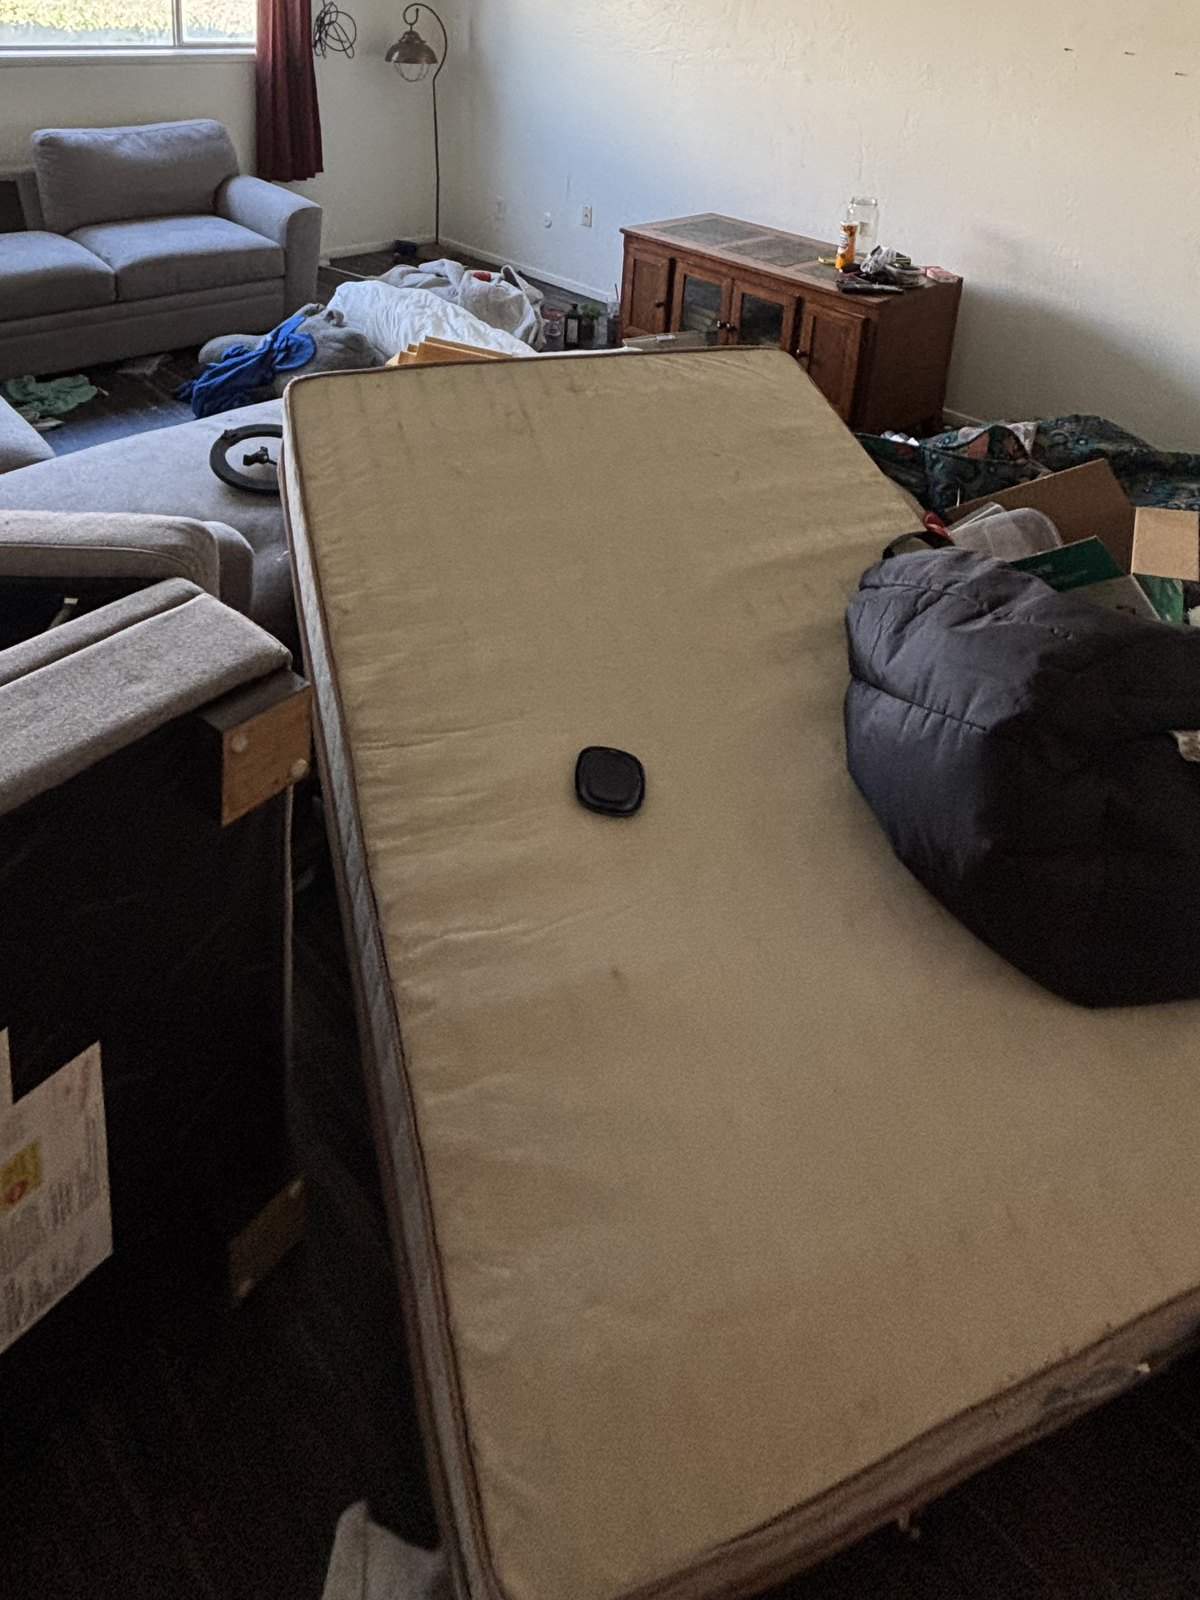
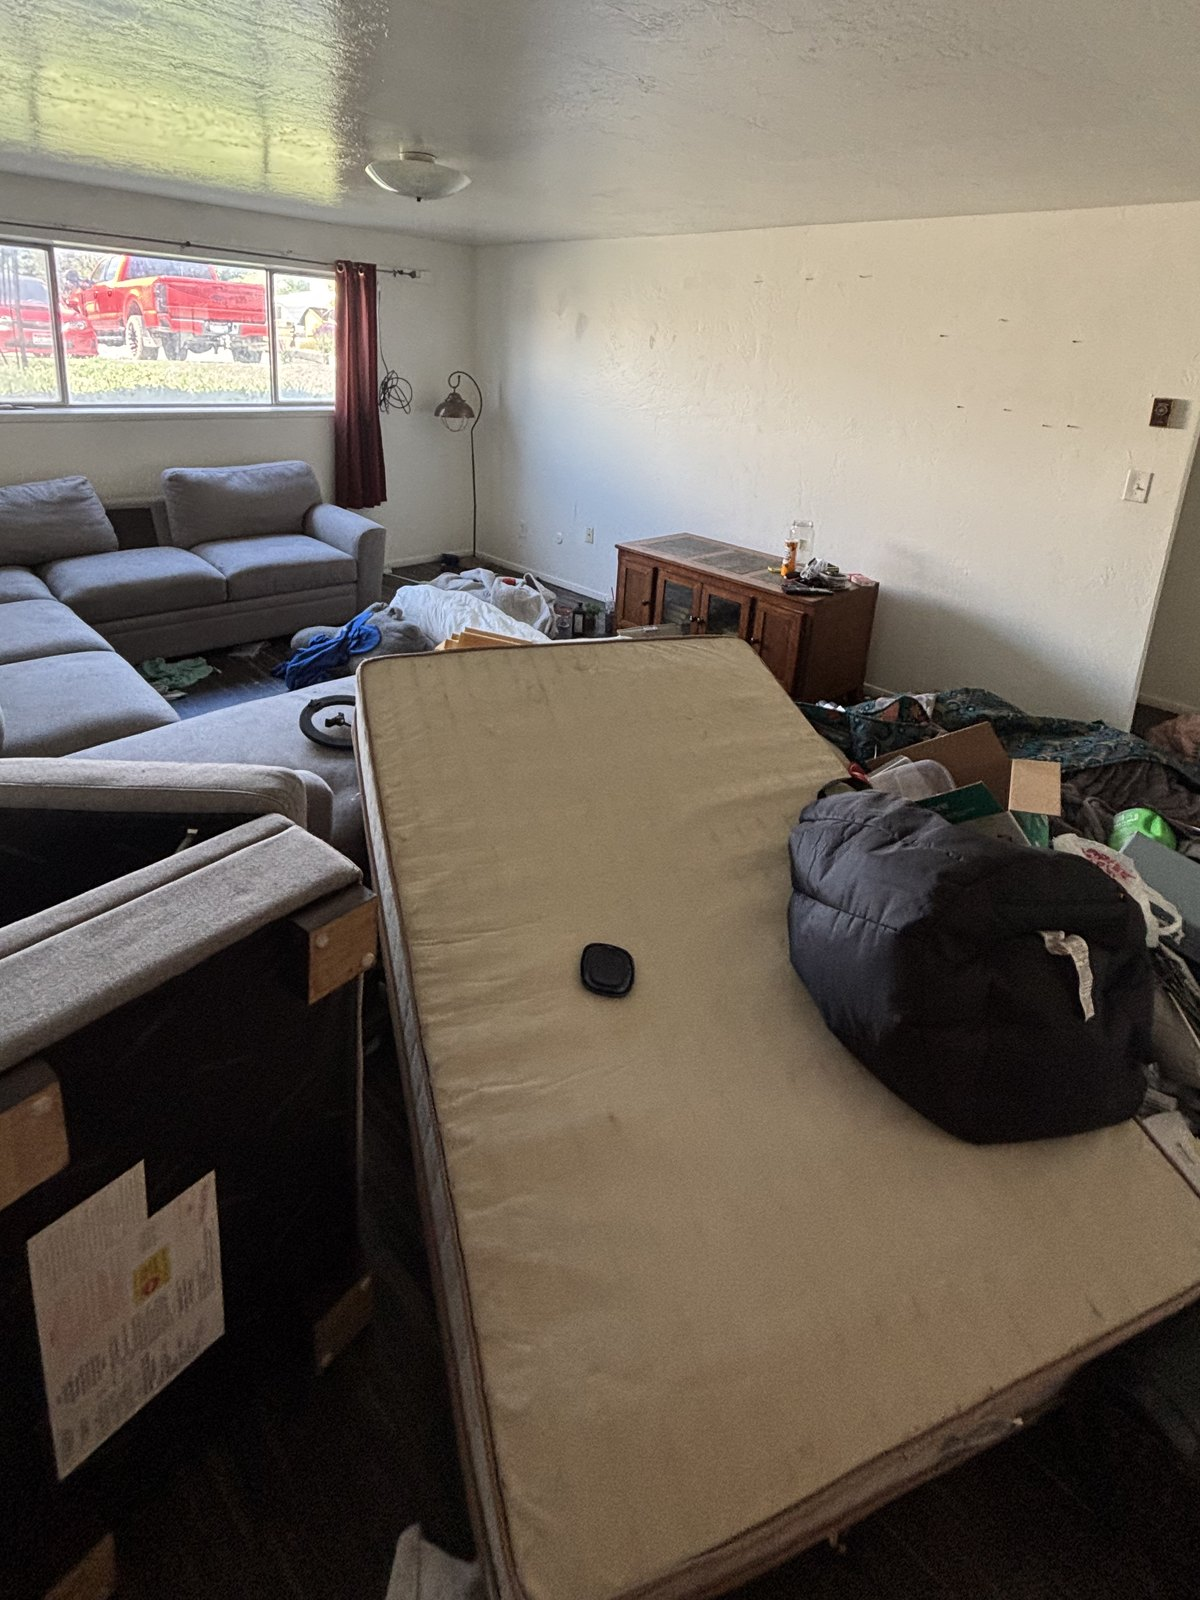
Trim Work grid to 8 before/afters; re-crop hero for clear view
- Remove bathroom, green-carpet and yard tiles -> clean 4x2 grid of 8 sliders
- Re-crop hero before/after at gentler 22% top cut so the room is clearly
  visible (the prior crop zoomed into a dark corner); cache-bust to v=3

diff --git a/index.html b/index.html
@@ -581,8 +581,8 @@ footer{border-top:1px solid var(--line);padding:0 0 26px;position:relative;z-ind
     </div>
     <div class="hero-right">
       <div class="ba-stage hero-ba" data-ba>
-        <img class="ba-after" src="assets/hero-after.jpg?v=2" alt="Living room after Peak Property Cleanouts — emptied and swept clean"/>
-        <img class="ba-before" src="assets/hero-before.jpg?v=2" alt="Living room before — packed with old furniture and clutter"/>
+        <img class="ba-after" src="assets/hero-after.jpg?v=3" alt="Living room after Peak Property Cleanouts — emptied and swept clean"/>
+        <img class="ba-before" src="assets/hero-before.jpg?v=3" alt="Living room before — packed with old furniture and clutter"/>
         <span class="ba-tag before">◄ Before</span>
         <span class="ba-tag after">After ►</span>
         <div class="ba-hint">◄ drag to reveal ►</div>
@@ -738,14 +738,11 @@ footer{border-top:1px solid var(--line);padding:0 0 26px;position:relative;z-ind
       <div class="ba-stage workba reveal" data-ba><img loading="lazy" decoding="async" class="ba-after" src="assets/work1-after.jpg?v=2" alt="Garage cleanout after — emptied and swept"/><img loading="lazy" decoding="async" class="ba-before" src="assets/work1-before.jpg?v=2" alt="Garage cleanout before — packed with junk"/><span class="ba-tag before">Before</span><span class="ba-tag after">After</span><div class="ba-line"><div class="ba-knob"><svg viewBox="0 0 24 24" fill="none" stroke="currentColor" stroke-width="2"><path stroke-linecap="round" stroke-linejoin="round" d="M8 7l-4 5 4 5M16 7l4 5-4 5"/></svg></div></div></div>
       <div class="ba-stage workba reveal" data-ba><img loading="lazy" decoding="async" class="ba-after" src="assets/work2-after.jpg?v=2" alt="Kitchen cleanout after — cleared"/><img loading="lazy" decoding="async" class="ba-before" src="assets/work2-before.jpg?v=2" alt="Kitchen cleanout before — cluttered"/><span class="ba-tag before">Before</span><span class="ba-tag after">After</span><div class="ba-line"><div class="ba-knob"><svg viewBox="0 0 24 24" fill="none" stroke="currentColor" stroke-width="2"><path stroke-linecap="round" stroke-linejoin="round" d="M8 7l-4 5 4 5M16 7l4 5-4 5"/></svg></div></div></div>
       <div class="ba-stage workba reveal" data-ba><img loading="lazy" decoding="async" class="ba-after" src="assets/work3-after.jpg?v=2" alt="Kitchen cleanout after — cleared"/><img loading="lazy" decoding="async" class="ba-before" src="assets/work3-before.jpg?v=2" alt="Kitchen cleanout before — cluttered"/><span class="ba-tag before">Before</span><span class="ba-tag after">After</span><div class="ba-line"><div class="ba-knob"><svg viewBox="0 0 24 24" fill="none" stroke="currentColor" stroke-width="2"><path stroke-linecap="round" stroke-linejoin="round" d="M8 7l-4 5 4 5M16 7l4 5-4 5"/></svg></div></div></div>
-      <div class="ba-stage workba reveal" data-ba><img loading="lazy" decoding="async" class="ba-after" src="assets/work4-after.jpg?v=2" alt="Bathroom cleanout after — clean"/><img loading="lazy" decoding="async" class="ba-before" src="assets/work4-before.jpg?v=2" alt="Bathroom cleanout before"/><span class="ba-tag before">Before</span><span class="ba-tag after">After</span><div class="ba-line"><div class="ba-knob"><svg viewBox="0 0 24 24" fill="none" stroke="currentColor" stroke-width="2"><path stroke-linecap="round" stroke-linejoin="round" d="M8 7l-4 5 4 5M16 7l4 5-4 5"/></svg></div></div></div>
       <div class="ba-stage workba reveal" data-ba><img loading="lazy" decoding="async" class="ba-after" src="assets/work5-after.jpg?v=2" alt="Bedroom cleanout after — empty"/><img loading="lazy" decoding="async" class="ba-before" src="assets/work5-before.jpg?v=2" alt="Bedroom cleanout before — furnished and cluttered"/><span class="ba-tag before">Before</span><span class="ba-tag after">After</span><div class="ba-line"><div class="ba-knob"><svg viewBox="0 0 24 24" fill="none" stroke="currentColor" stroke-width="2"><path stroke-linecap="round" stroke-linejoin="round" d="M8 7l-4 5 4 5M16 7l4 5-4 5"/></svg></div></div></div>
       <div class="ba-stage workba reveal" data-ba><img loading="lazy" decoding="async" class="ba-after" src="assets/work6-after.jpg?v=2" alt="Bedroom cleanout after — empty"/><img loading="lazy" decoding="async" class="ba-before" src="assets/work6-before.jpg?v=2" alt="Bedroom cleanout before"/><span class="ba-tag before">Before</span><span class="ba-tag after">After</span><div class="ba-line"><div class="ba-knob"><svg viewBox="0 0 24 24" fill="none" stroke="currentColor" stroke-width="2"><path stroke-linecap="round" stroke-linejoin="round" d="M8 7l-4 5 4 5M16 7l4 5-4 5"/></svg></div></div></div>
       <div class="ba-stage workba reveal" data-ba><img loading="lazy" decoding="async" class="ba-after" src="assets/work7-after.jpg?v=2" alt="Living room cleanout after — empty and swept"/><img loading="lazy" decoding="async" class="ba-before" src="assets/work7-before.jpg?v=2" alt="Living room cleanout before — furniture and clutter"/><span class="ba-tag before">Before</span><span class="ba-tag after">After</span><div class="ba-line"><div class="ba-knob"><svg viewBox="0 0 24 24" fill="none" stroke="currentColor" stroke-width="2"><path stroke-linecap="round" stroke-linejoin="round" d="M8 7l-4 5 4 5M16 7l4 5-4 5"/></svg></div></div></div>
       <div class="ba-stage workba reveal" data-ba><img loading="lazy" decoding="async" class="ba-after" src="assets/work8-after.jpg?v=2" alt="Bedroom cleanout after — empty"/><img loading="lazy" decoding="async" class="ba-before" src="assets/work8-before.jpg?v=2" alt="Bedroom cleanout before"/><span class="ba-tag before">Before</span><span class="ba-tag after">After</span><div class="ba-line"><div class="ba-knob"><svg viewBox="0 0 24 24" fill="none" stroke="currentColor" stroke-width="2"><path stroke-linecap="round" stroke-linejoin="round" d="M8 7l-4 5 4 5M16 7l4 5-4 5"/></svg></div></div></div>
       <div class="ba-stage workba reveal" data-ba><img loading="lazy" decoding="async" class="ba-after" src="assets/work9-after.jpg?v=2" alt="Spare room cleanout after — empty"/><img loading="lazy" decoding="async" class="ba-before" src="assets/work9-before.jpg?v=2" alt="Spare room cleanout before"/><span class="ba-tag before">Before</span><span class="ba-tag after">After</span><div class="ba-line"><div class="ba-knob"><svg viewBox="0 0 24 24" fill="none" stroke="currentColor" stroke-width="2"><path stroke-linecap="round" stroke-linejoin="round" d="M8 7l-4 5 4 5M16 7l4 5-4 5"/></svg></div></div></div>
-      <div class="ba-stage workba reveal" data-ba><img loading="lazy" decoding="async" class="ba-after" src="assets/work10-after.jpg?v=2" alt="Stairwell cleanout after — cleared"/><img loading="lazy" decoding="async" class="ba-before" src="assets/work10-before.jpg?v=2" alt="Stairwell cleanout before"/><span class="ba-tag before">Before</span><span class="ba-tag after">After</span><div class="ba-line"><div class="ba-knob"><svg viewBox="0 0 24 24" fill="none" stroke="currentColor" stroke-width="2"><path stroke-linecap="round" stroke-linejoin="round" d="M8 7l-4 5 4 5M16 7l4 5-4 5"/></svg></div></div></div>
-      <div class="ba-stage workba reveal" data-ba><img loading="lazy" decoding="async" class="ba-after" src="assets/work11-after.jpg?v=2" alt="Yard cleanout after — old machinery and debris cleared"/><img loading="lazy" decoding="async" class="ba-before" src="assets/work11-before.jpg?v=2" alt="Yard cleanout before — old machinery and overgrowth"/><span class="ba-tag before">Before</span><span class="ba-tag after">After</span><div class="ba-line"><div class="ba-knob"><svg viewBox="0 0 24 24" fill="none" stroke="currentColor" stroke-width="2"><path stroke-linecap="round" stroke-linejoin="round" d="M8 7l-4 5 4 5M16 7l4 5-4 5"/></svg></div></div></div>
     </div>
     <p class="subnote" style="text-align:center;margin-top:22px">// Real Peak cleanouts across East Idaho — fresh before &amp; afters added all the time.</p>
   </div>